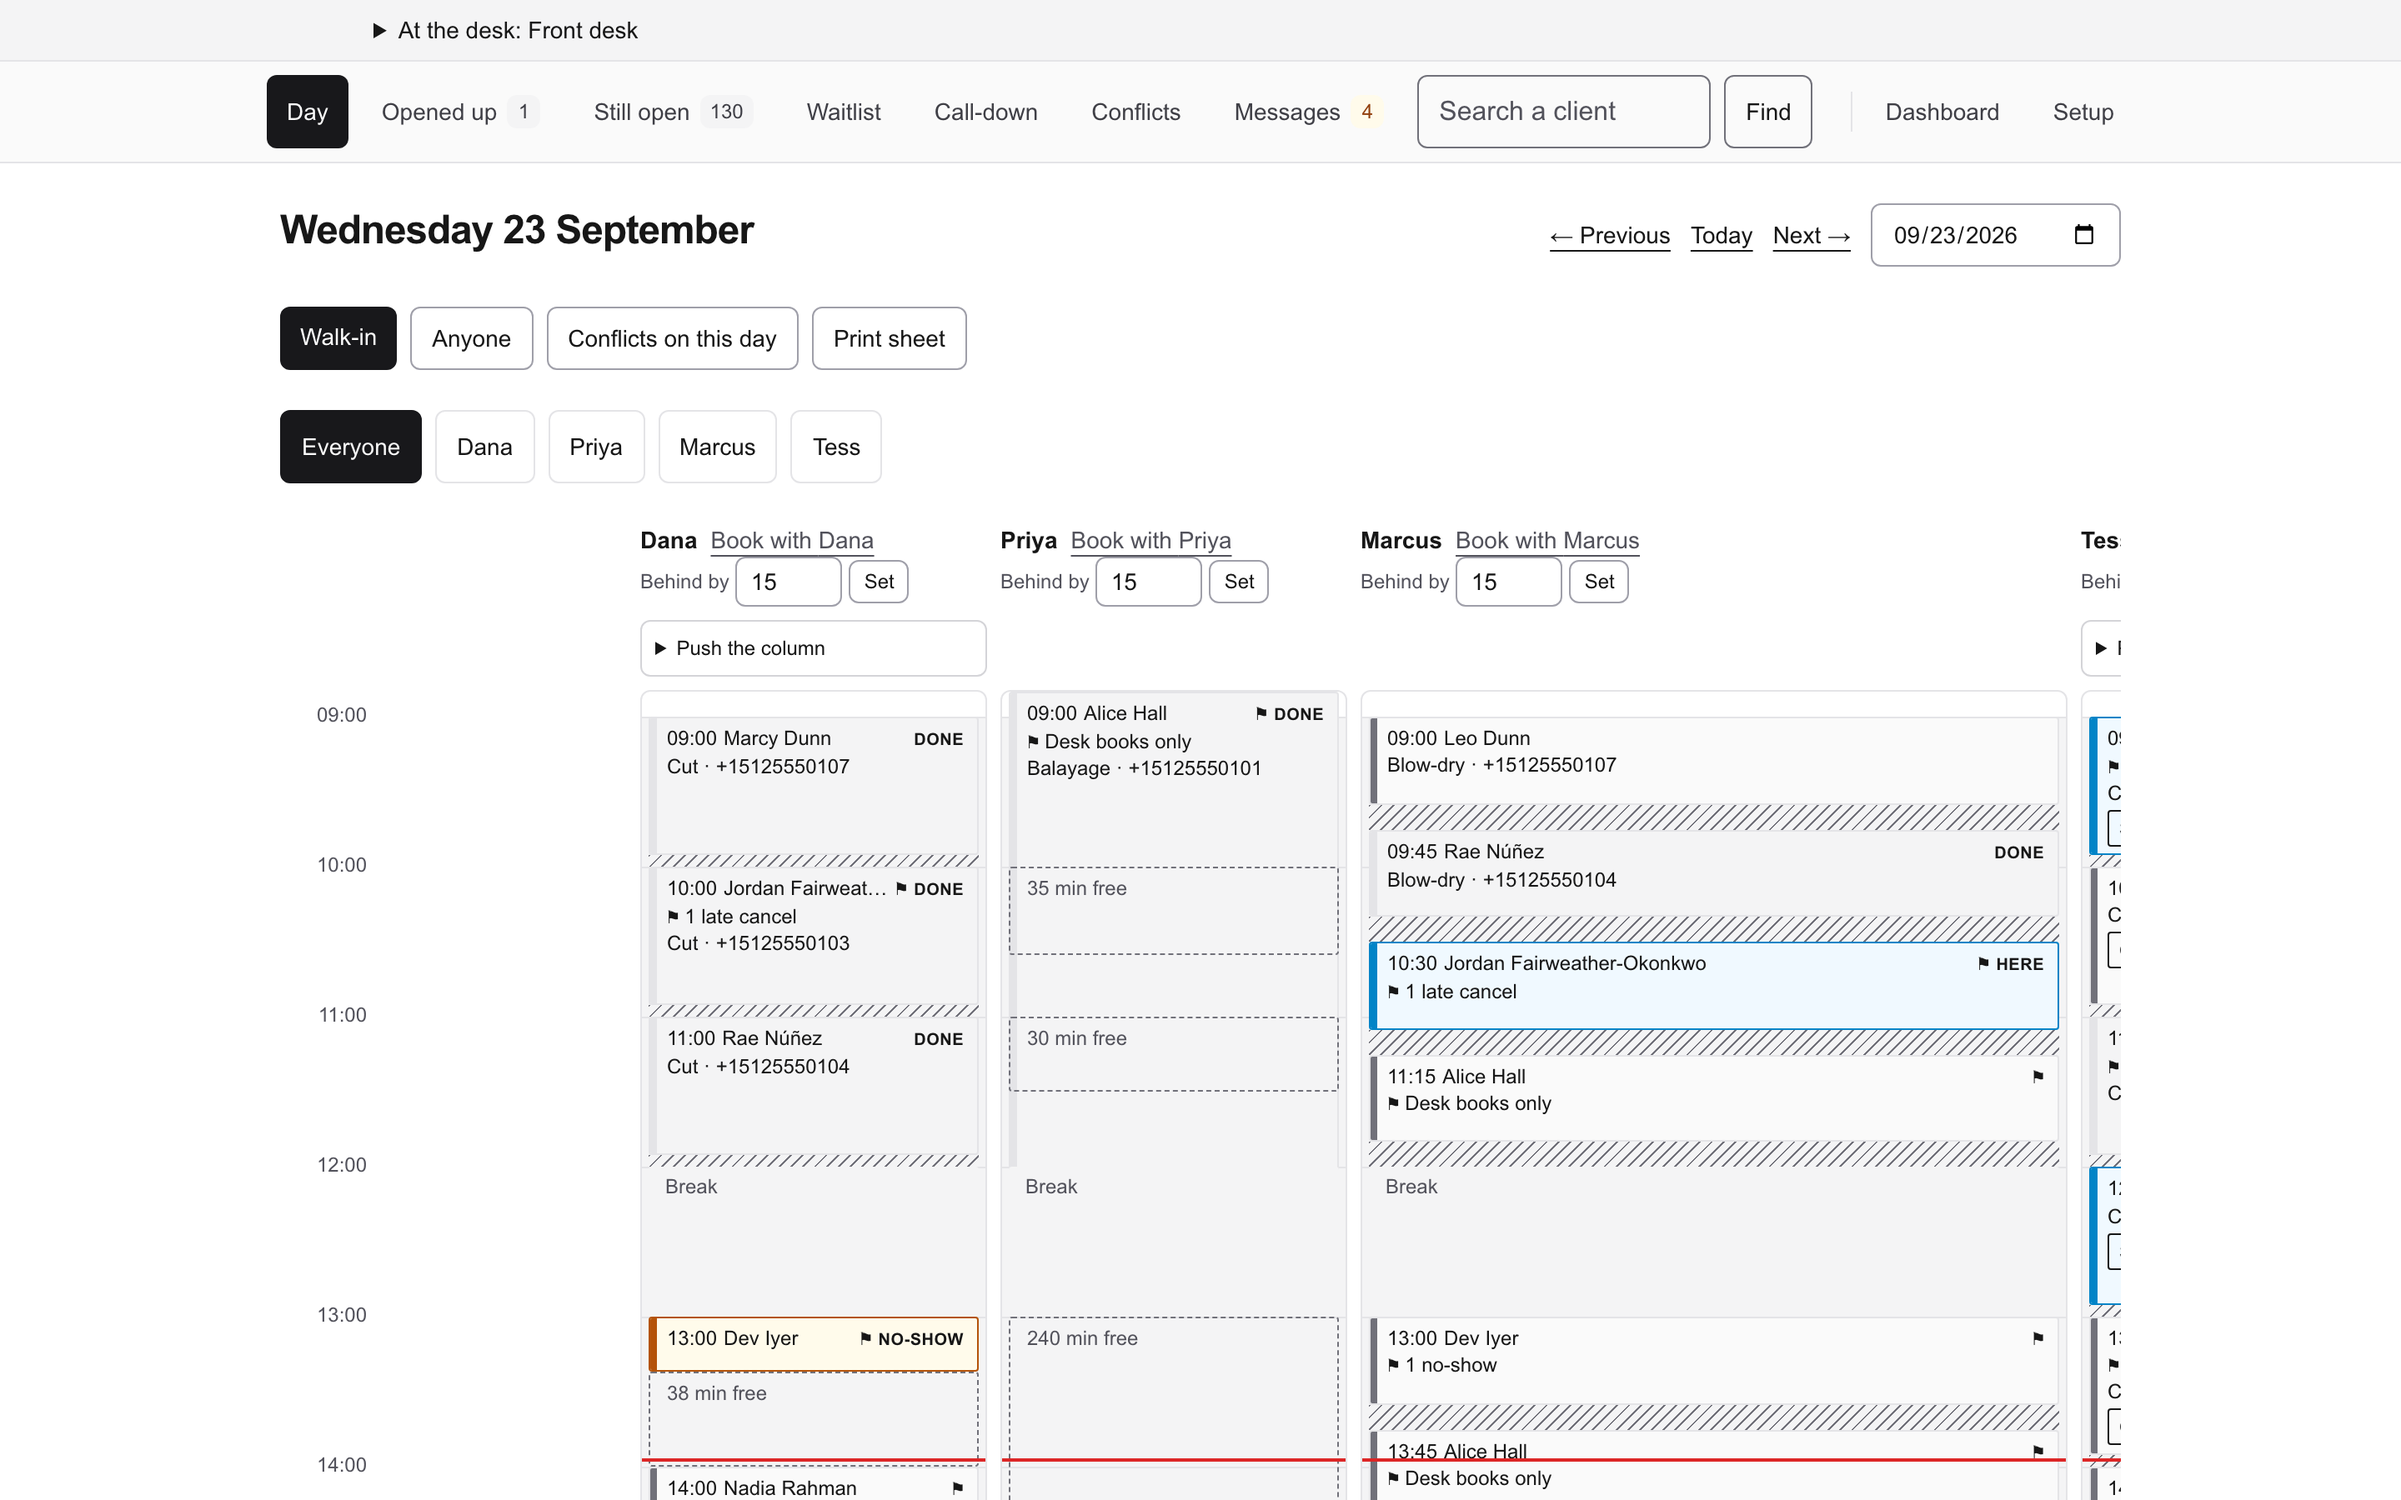
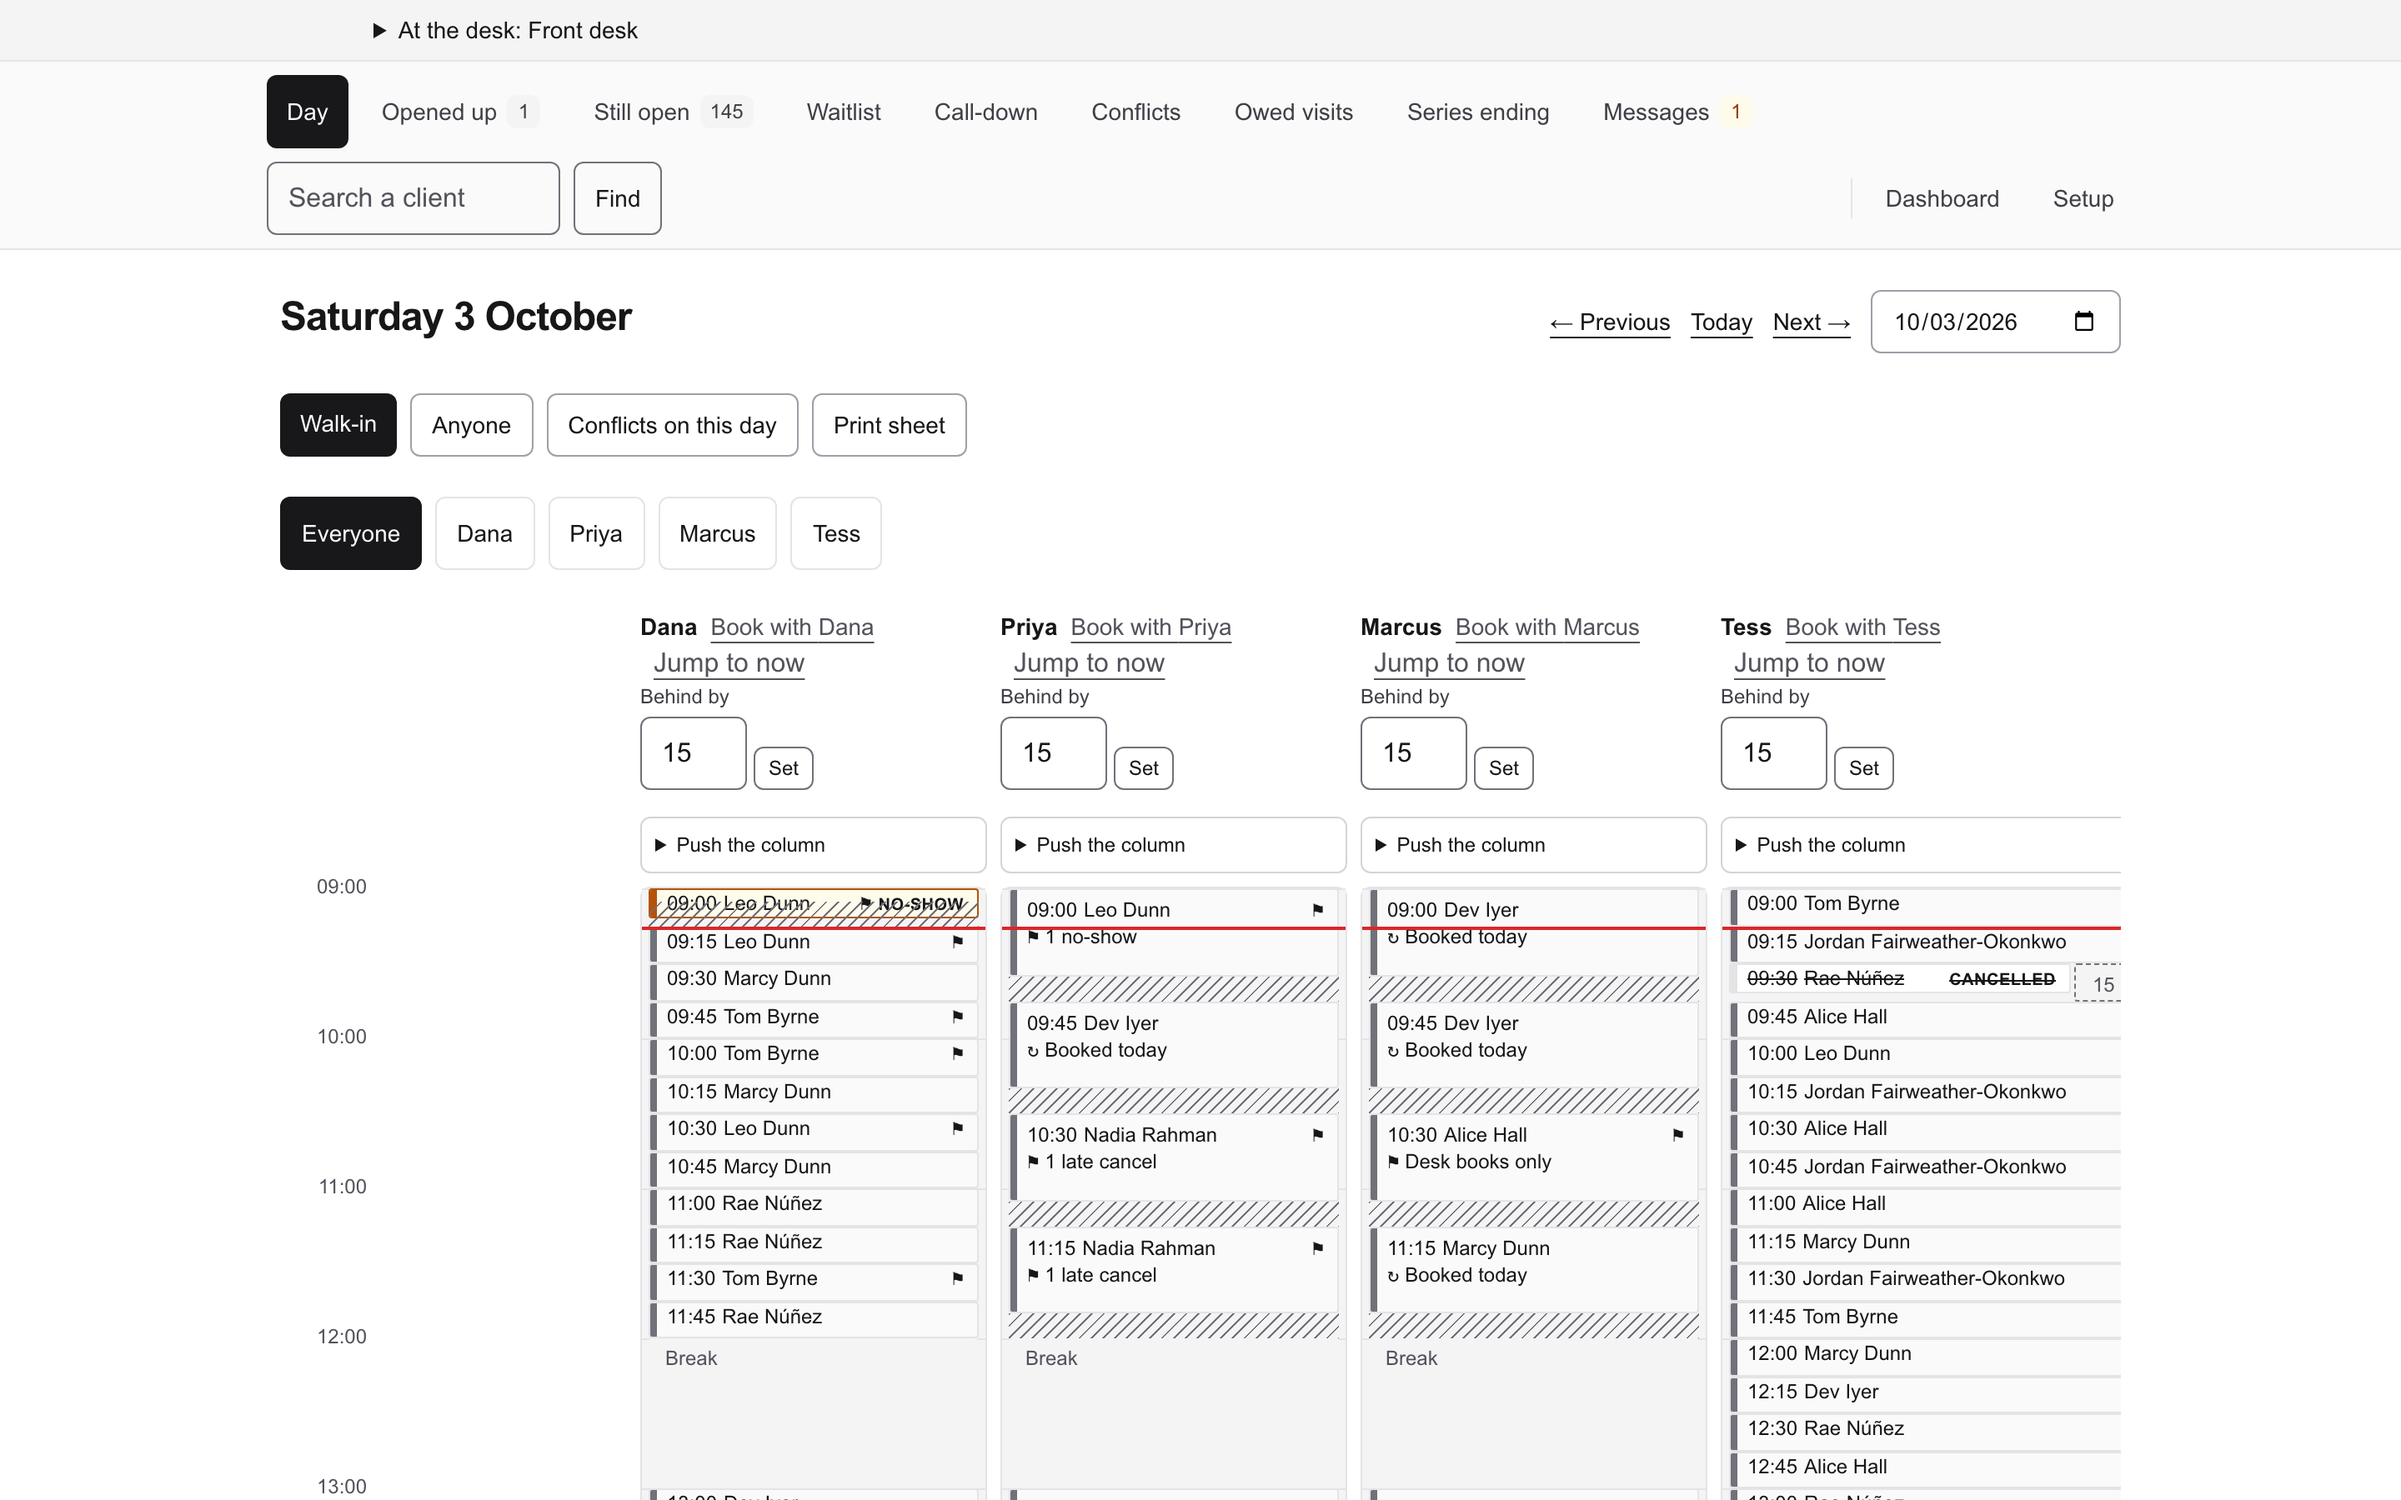
Closure: DEMO.md re-run 2026-10-03, screenshots retaken, hosted demo migrated and refreshed

diff --git a/docs/DEMO.md b/docs/DEMO.md
@@ -1,6 +1,6 @@
 # Bookable — demo script
 
-Every command below was run once against a fresh database on 2026-09-23 (seed 20 s, build ~1 min, all 19 staff routes answered 200 after sign-in, the running-late scene was set and cleared live). Anything you see on screen that differs from this file, the file is wrong — fix it.
+Every command below was run once against a fresh database on 2026-10-03 (seed and build ~10 min on a loaded laptop, the public pages and all 12 staff routes below answered 200 after sign-in, the running-late scene was set and cleared live, the 13 screenshots were retaken). Anything you see on screen that differs from this file, the file is wrong — fix it.
 
 **What this is:** appointment scheduling for a sample 4-chair salon, "Shear Genius" (Dana, Priya, Marcus, Tess). Time zone America/Chicago. Everything is synthetic.
 
@@ -35,7 +35,7 @@ npx dotenv -e .env.local -- npm run start -w apps/web      # serves on :3300
 
 `<user>` is whatever your local `DATABASE_URL` in `.env.test` uses (`grep DATABASE_URL .env.test`). Exporting `DATABASE_URL` first matters: `dotenv` never overrides a variable that is already set, so this is what points the app at `bookable_demo` and not `bookable_dev`.
 
-**The seed prints** `4 providers, 8 services, ~719 appointments, 13 clients … 3 on the waitlist … 1 double-booked by override`. If the waitlist or override counts are 0, the seed did not run in full — re-create the database.
+**The seed prints** `4 providers, 8 services, ~780 appointments, 13 clients … 3 on the waitlist … 1 double-booked by override`. The appointment count moves a little with each seed date. If the waitlist or override counts are 0, the seed did not run in full — re-create the database.
 
 ### Accounts and where each credential lives
 
@@ -66,9 +66,9 @@ Use the owner account. Lands on `/staff/day`, today's grid: four columns, one ch
 
 ![Today's day grid](screenshots/04-day-today.png)
 
-### 3. The day grid — `/staff/day`, then `?day=2026-09-24` (Thursday)
-Thursday is the dense day. Point at:
-- **Tom Byrne, 10:00** — `⚑ Allergic to PPD — patch test before any colour.` The note travels with the client onto every chip.
+### 3. The day grid — `/staff/day`, then the next day the salon is open
+The salon is closed Sunday and Monday (the grid reads "off today" in every column), so from a weekend press **Next** until it fills — Tuesday if you seeded on a Saturday. That is the dense day. Point at:
+- **Tom Byrne** — `⚑ Allergic to PPD — patch test before any colour.` The note travels with the client onto every chip.
 - **Dev Iyer, 09:00** — `⚑ OVR` / `OVERRIDE`: a double-booking the desk chose on purpose, drawn in its own lane beside Leo Dunn. The database constraint is never lied to (a zero-width blocked range plus the remembered original), and the grid still shows the true collision.
 - **Nadia Rahman, 11:00 / Jordan Fairweather-Okonkwo, 09:00 (Tess)** — `⚑ 1 late cancel`. Dev Iyer also carries `⚑ 1 no-show`. **Say:** the flag is the half the desk acts on, and a test compares `scrollWidth` with `clientWidth` because a clipped line passes every other assertion.
 
@@ -97,13 +97,13 @@ Dev Iyer, Nadia Rahman, Tom Byrne waiting, with acceptable providers, date windo
 ![Waitlist](screenshots/09-waitlist.png)
 
 ### 7. Call-down — `/staff/call-down`
-Tomorrow's unconfirmed bookings (34 of 36 still to ring). Buttons: **No answer / Left a message / Confirmed**. **Say:** marking a call sends nothing; it records that a person picked up the phone. A no-show tomorrow is nobody's default.
+The next day's unconfirmed bookings (most still to ring; **empty on a Saturday seed, because tomorrow is Sunday** — use `?day=` on a weekday, or demo this one Monday–Thursday). Buttons: **No answer / Left a message / Confirmed**. **Say:** marking a call sends nothing; it records that a person picked up the phone. A no-show tomorrow is nobody's default.
 
 
 ![Call-down](screenshots/10-call-down.png)
 
 ### 8. Still open — `/staff/unfinished`
-128 past appointments nobody closed out, with **Came / Didn't come** and the dollar figure the week's numbers cannot see.
+About 145 past appointments (last 21 days) nobody closed out, with **Came / Didn't come** and the dollar figure the week's numbers cannot see.
 
 
 ![Still open](screenshots/11-unfinished.png)
@@ -115,7 +115,10 @@ Bookings, cancellations, no-shows by provider, worked vs booked utilization. Dri
 ![Dashboard and lapsed clients](screenshots/12-dashboard.png)
 ![Dashboard and lapsed clients](screenshots/13-lapsed.png)
 
-### 10. The reminder job — from a terminal
+### 10. The desk lists added since the first script — `/staff/owed`, `/staff/series`, `/staff/conflicts`
+**Owed visits** lists clients the salon cancelled on (D-74; empty until one is cancelled from the conflicts screen). **Series ending** lists standing bookings about to run out, with **Extend** (D-75; the seed has no series, so it is empty until one is booked). On any appointment panel, a forward tap (check in, start, finish) shows **Undo** for ten minutes (D-77). **Say:** an undo is a correction with the name of who made it.
+
+### 11. The reminder job — from a terminal
 ```bash
 C=$(grep '^CRON_SECRET=' .env.local | cut -d= -f2-)
 curl -s -H "Authorization: Bearer $C" localhost:3300/api/jobs/reminders   # 200, JSON counts
@@ -123,7 +126,7 @@ curl -s -o /dev/null -w '%{http_code}\n' localhost:3300/api/jobs/reminders  # 40
 ```
 Returns `{"reminders":{"due":…},"dispatch":{…}}`. **Say:** the route refuses to run open, same reasoning as `SESSION_SECRET`.
 
-### 11. The rules underneath (optional, if the audience is technical)
+### 12. The rules underneath (optional, if the audience is technical)
 - `docs/prds/07-decisions.md` overrides the PRDs; nothing settled is re-opened.
 - The no-overlap invariant is a Postgres exclusion constraint (SQLSTATE `23P01`), not application code.
 - CI runs the suite under `TZ=UTC` and `TZ=Pacific/Kiritimati` and expects identical results.
@@ -149,6 +152,7 @@ Against the hosted copy: `BASE=https://appt.labintelligence.co DEMO_ACCESS_PASSW
 | Hosted grid is empty | The hosted book is more than about ten days old | `./scripts/refresh-hosted-demo.sh` |
 | Hosted site keeps asking for a password | That's the shared demo gate, not staff sign-in | Any username + `DEMO_ACCESS_PASSWORD` from `.env.production.local` |
 | `EADDRINUSE :3300` | A previous server is still up | `lsof -ti :3300 \| xargs kill` |
+| Call-down or day view looks empty on a weekend | The salon is closed Sunday and Monday; "tomorrow" has no bookings | Press **Next** on the day view, or open `?day=` for a weekday |
 | Running-late panel shows nothing to project | Dana has no appointments later today | Demo on a weekday before ~17:00 |
 | Walk-in refused for ~15 min after a claim is cleared | See concession 2 below | Tap **Back on time** |
 | Tess's column is cut off on a laptop screen | The grid scrolls sideways inside its own box, and the page itself doesn't | Scroll the grid, or pick one stylist with the filter buttons |
@@ -166,7 +170,7 @@ Against the hosted copy: `BASE=https://appt.labintelligence.co DEMO_ACCESS_PASSW
 8. **Waitlist matching is oldest-first**, and **D-54 widens a column on heavy cancellation days.** Both open since Phase 15; not built.
 9. **Deliberately not built:** holds, automated offers (OQ-4), a staleness alarm, a per-client stored delay.
 10. **A demo deployment, not production.** The hosted copy has no backups, monitoring or on-call, and sits behind one shared password. There is no real client data; every name, phone number and dollar figure is synthetic.
-11. **Reminders:** two of the seeded reminders are left by the skipped band on purpose — the never-reminded screen is not empty on a fresh install.
+11. **Reminders:** one of the seeded reminders is left by the skipped band on purpose — the never-reminded screen is not empty on a fresh install.
 
 ## Reset
 

diff --git a/docs/RELEASE_NOTES.md b/docs/RELEASE_NOTES.md
@@ -5181,7 +5181,8 @@ now announced to screen readers as selected.
 
 ## Project closure artifacts
 
-- **Demo script:** `docs/DEMO.md`. Every command in it was run once against a fresh `bookable_demo` database on 2026-09-23.
+- **Demo script:** `docs/DEMO.md`. Re-run in full against a fresh `bookable_demo` database on 2026-10-03 (first run 2026-09-23); screenshots retaken, and the capture script now skips the closed Sunday/Monday.
+- **Hosted demo refreshed 2026-10-04** after A-161: auto-deploy is off (D-71), so the Neon schema was a migration behind (`series_ended_at`) and the refresh script failed at its copy step with the hosted book already emptied. Fix: `migrate:deploy` against Neon, then the refresh. **Rule: run `migrate:deploy` against the demo DB before `refresh-hosted-demo.sh` whenever migrations have landed since the last deploy.**
 - **Exec brief — Bookable in Brief:** https://claude.ai/artifact/AUve67hviR4hkQ6AH9t6nq (private until shared). Its counts come from CI run 35892508204: 1,752 unit tests passed + 1 skipped, run under both TZ legs, and 340 e2e tests passed.
 - **Live demo:** https://appt.labintelligence.co, behind one shared password (`DEMO_ACCESS_PASSWORD` in `.env.production.local`). Setup and refresh are in `docs/DEPLOYMENT.md` (D-65).
 - **LinkedIn drafts:** Lab Intelligence Ledger, https://claude.ai/artifact/Ai5xKScgT2sWtqXRQ1ZA8i — posts 49–53, tagged Bookable, one per pillar (AI, Scale, Impact, MarTech, AI), queued after Groundwork: the two-1:30s time trap, the room that is never full (A-082), the colour drawn 90 minutes late (A-093), the half-visible no-show warning (A-120), and the running-late claim that follows the next client (A-135).
